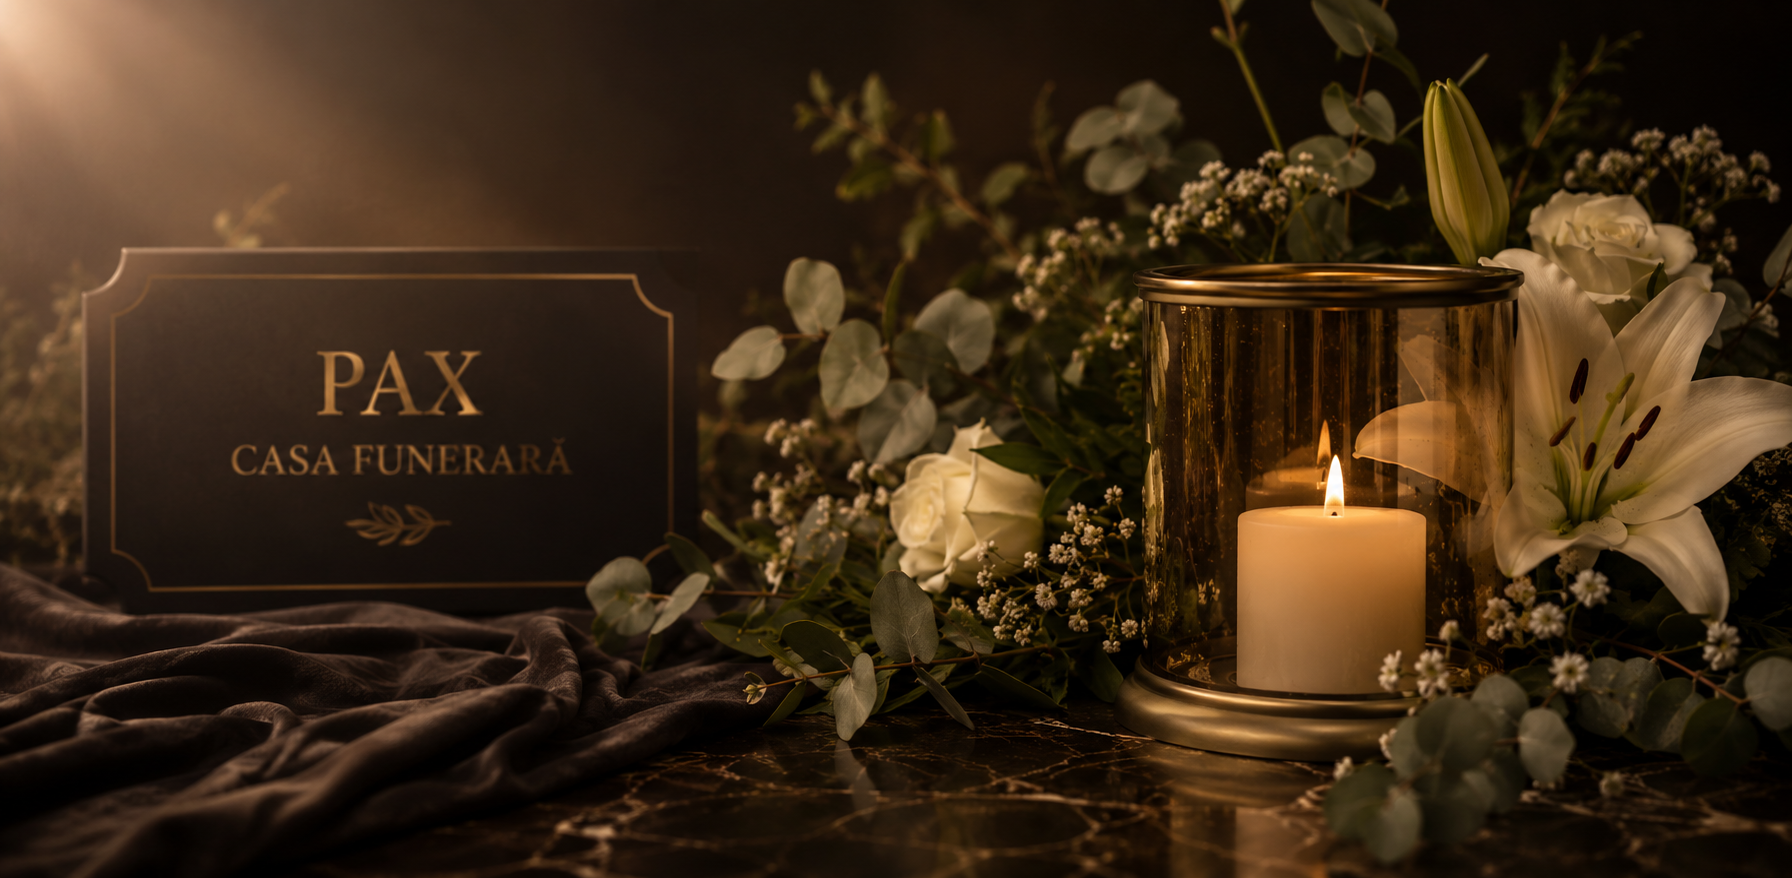
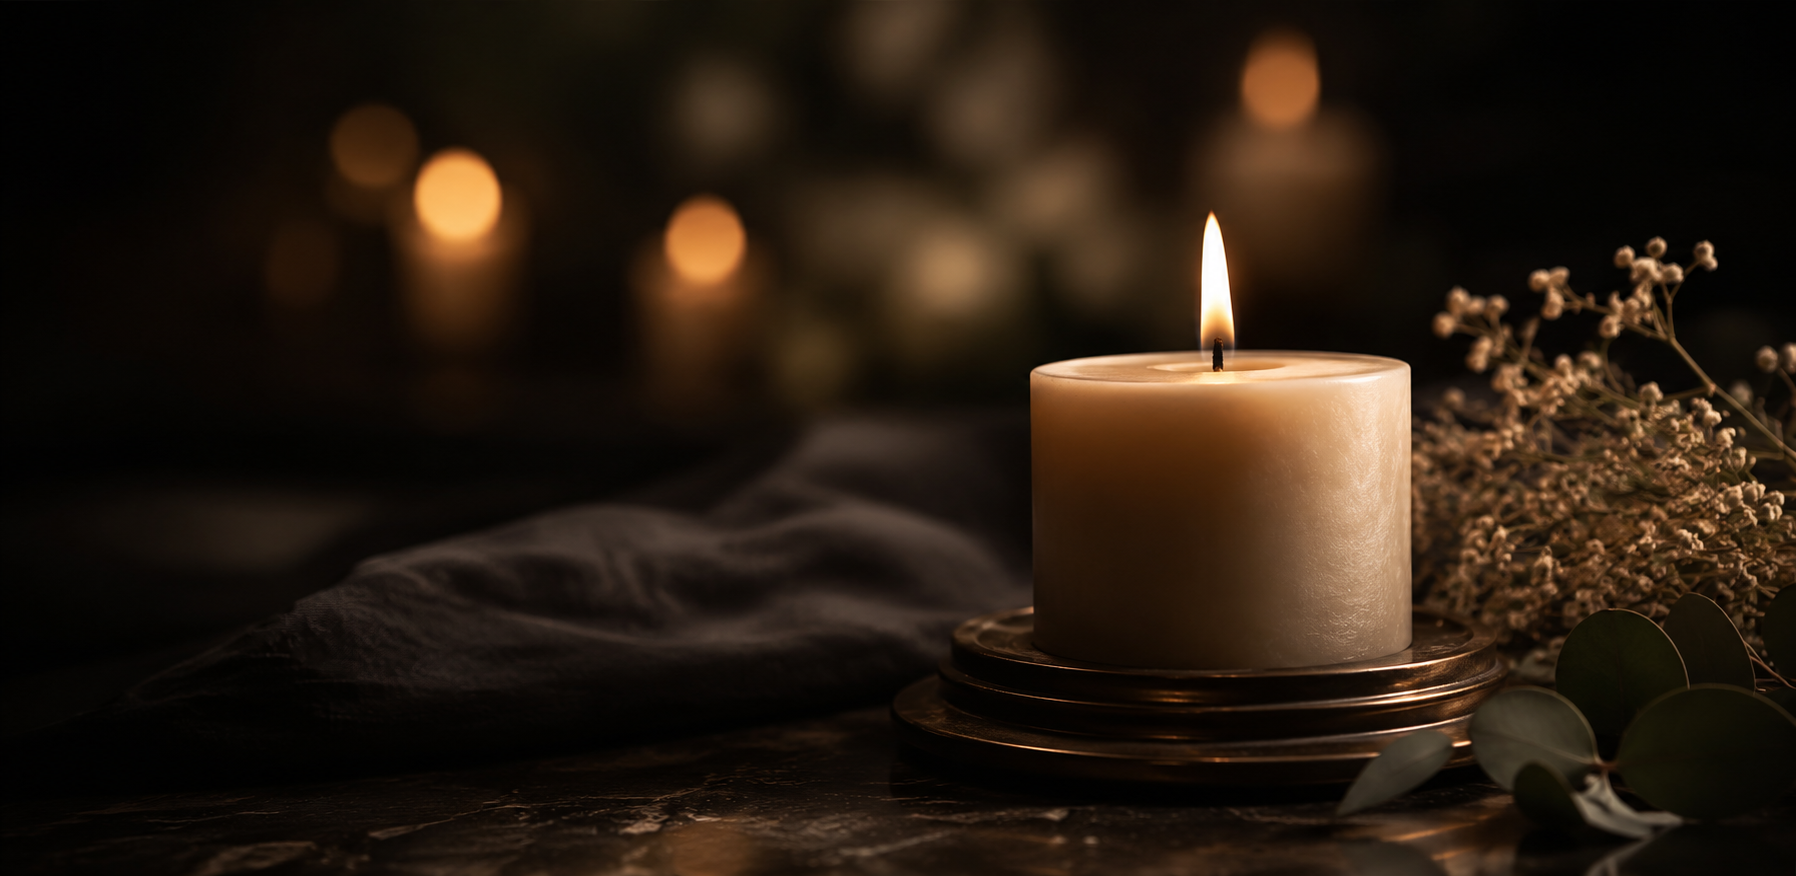
feat: update hero sections with new images and overlays for contact, services, and shop pages

diff --git a/src/app/pages/contact/contact.component.scss b/src/app/pages/contact/contact.component.scss
@@ -1,10 +1,37 @@
 @use '../../../styles/variables' as *;
 
 .page-hero {
-  background: var(--bg-hero-premium);
+  position: relative;
+  min-height: min(64vh, 560px);
+  display: flex;
+  flex-direction: column;
+  align-items: center;
+  justify-content: center;
+  overflow: hidden;
   border-bottom: 1px solid var(--color-border);
   padding-block: var(--space-16) var(--space-12);
   text-align: center;
+
+  .hero-bg {
+    position: absolute;
+    inset: 0;
+    width: 100%;
+    height: 100%;
+    object-fit: cover;
+    z-index: 0;
+  }
+
+  .hero-overlay {
+    position: absolute;
+    inset: 0;
+    z-index: 1;
+    background: linear-gradient(rgba(15, 15, 15, 0.62), rgba(15, 15, 15, 0.82));
+  }
+
+  .container {
+    position: relative;
+    z-index: 2;
+  }
 
   p {
     color: var(--color-text-secondary);

diff --git a/src/app/pages/despre-noi/despre-noi.component.scss b/src/app/pages/despre-noi/despre-noi.component.scss
@@ -1,10 +1,37 @@
 @use '../../../styles/variables' as *;
 
 .page-hero {
-  background: var(--bg-hero-premium);
+  position: relative;
+  min-height: min(64vh, 560px);
+  display: flex;
+  flex-direction: column;
+  align-items: center;
+  justify-content: center;
+  overflow: hidden;
   border-bottom: 1px solid var(--color-border);
   padding-block: var(--space-16) var(--space-12);
   text-align: center;
+
+  .hero-bg {
+    position: absolute;
+    inset: 0;
+    width: 100%;
+    height: 100%;
+    object-fit: cover;
+    z-index: 0;
+  }
+
+  .hero-overlay {
+    position: absolute;
+    inset: 0;
+    z-index: 1;
+    background: linear-gradient(rgba(15, 15, 15, 0.62), rgba(15, 15, 15, 0.82));
+  }
+
+  .container {
+    position: relative;
+    z-index: 2;
+  }
 }
 
 .page-hero-title {

diff --git a/src/app/pages/magazin/magazin.component.scss b/src/app/pages/magazin/magazin.component.scss
@@ -1,10 +1,37 @@
 @use '../../../styles/variables' as *;
 
 .page-hero {
-  background: var(--bg-hero-premium);
+  position: relative;
+  min-height: min(64vh, 560px);
+  display: flex;
+  flex-direction: column;
+  align-items: center;
+  justify-content: center;
+  overflow: hidden;
   border-bottom: 1px solid var(--color-border);
   padding-block: var(--space-16) var(--space-12);
   text-align: center;
+
+  .hero-bg {
+    position: absolute;
+    inset: 0;
+    width: 100%;
+    height: 100%;
+    object-fit: cover;
+    z-index: 0;
+  }
+
+  .hero-overlay {
+    position: absolute;
+    inset: 0;
+    z-index: 1;
+    background: linear-gradient(rgba(15, 15, 15, 0.62), rgba(15, 15, 15, 0.82));
+  }
+
+  .container {
+    position: relative;
+    z-index: 2;
+  }
 }
 
 .page-hero-title {

diff --git a/src/app/pages/servicii-funerare/servicii-funerare.component.scss b/src/app/pages/servicii-funerare/servicii-funerare.component.scss
@@ -1,10 +1,37 @@
 @use '../../../styles/variables' as *;
 
 .page-hero {
-  background: var(--bg-hero-premium);
+  position: relative;
+  min-height: min(64vh, 560px);
+  display: flex;
+  flex-direction: column;
+  align-items: center;
+  justify-content: center;
+  overflow: hidden;
   border-bottom: 1px solid var(--color-border);
   padding-block: var(--space-16) var(--space-12);
   text-align: center;
+
+  .hero-bg {
+    position: absolute;
+    inset: 0;
+    width: 100%;
+    height: 100%;
+    object-fit: cover;
+    z-index: 0;
+  }
+
+  .hero-overlay {
+    position: absolute;
+    inset: 0;
+    z-index: 1;
+    background: linear-gradient(rgba(15, 15, 15, 0.62), rgba(15, 15, 15, 0.82));
+  }
+
+  .container {
+    position: relative;
+    z-index: 2;
+  }
 }
 
 .page-hero-title {

diff --git a/src/app/pages/home/home.component.scss b/src/app/pages/home/home.component.scss
@@ -11,6 +11,22 @@
   text-align: center;
   overflow: hidden;
 
+  .hero-bg {
+    position: absolute;
+    inset: 0;
+    width: 100%;
+    height: 100%;
+    object-fit: cover;
+    z-index: 0;
+  }
+
+  .hero-overlay {
+    position: absolute;
+    inset: 0;
+    z-index: 1;
+    background: linear-gradient(rgba(15, 15, 15, 0.58), rgba(15, 15, 15, 0.8));
+  }
+
   // thin gold hairline along the very top
   &::before {
     content: '';
@@ -25,6 +41,7 @@
 
 .hero-content {
   position: relative;
+  z-index: 2;
 }
 
 .hero-kicker {

diff --git a/src/app/shared/components/navbar/navbar.component.ts b/src/app/shared/components/navbar/navbar.component.ts
@@ -34,6 +34,11 @@ export class NavbarComponent {
   closeMenu(): void {
     this.menuOpen.set(false);
     this.expandedGroup.set(null);
+    // Desktop hover dropdowns stay open via :focus-within after a click —
+    // drop focus so the panel collapses back to its initial state.
+    if (typeof document !== 'undefined') {
+      (document.activeElement as HTMLElement | null)?.blur();
+    }
   }
 
   toggleGroup(group: NavGroup): void {

diff --git a/src/app/pages/home/home.component.html b/src/app/pages/home/home.component.html
@@ -1,4 +1,6 @@
 <section class="hero">
+  <img class="hero-bg" src="photos/home/home_hero.png" alt="" aria-hidden="true">
+  <div class="hero-overlay" aria-hidden="true"></div>
   <div class="container hero-content">
     <p class="hero-kicker reveal-hidden">{{ 'common.nonStop' | translate }} · Târgu Mureș</p>
     <h1 class="hero-title reveal-hidden">{{ 'home.hero.title' | translate }}</h1>

diff --git a/src/app/pages/contact/contact.component.html b/src/app/pages/contact/contact.component.html
@@ -1,4 +1,6 @@
 <section class="page-hero">
+  <img class="hero-bg" src="photos/contact/contact_hero.png" alt="" aria-hidden="true">
+  <div class="hero-overlay" aria-hidden="true"></div>
   <div class="container">
     <h1 class="page-hero-title reveal-hidden">{{ 'contact.title' | translate }}</h1>
     <p class="reveal-hidden">{{ 'contact.subtitle' | translate }}</p>

diff --git a/src/app/pages/despre-noi/despre-noi.component.html b/src/app/pages/despre-noi/despre-noi.component.html
@@ -1,4 +1,6 @@
 <section class="page-hero">
+  <img class="hero-bg" src="photos/about-us/about_us_hero.png" alt="" aria-hidden="true">
+  <div class="hero-overlay" aria-hidden="true"></div>
   <div class="container">
     <h1 class="page-hero-title reveal-hidden">{{ 'about.title' | translate }}</h1>
     <p class="page-hero-tagline reveal-hidden">

diff --git a/src/app/pages/servicii-funerare/servicii-funerare.component.html b/src/app/pages/servicii-funerare/servicii-funerare.component.html
@@ -1,4 +1,6 @@
 <section class="page-hero">
+  <img class="hero-bg" src="photos/services/services_hero.png" alt="" aria-hidden="true">
+  <div class="hero-overlay" aria-hidden="true"></div>
   <div class="container">
     <h1 class="page-hero-title reveal-hidden">{{ 'services.title' | translate }}</h1>
     <p class="page-hero-desc reveal-hidden">

diff --git a/src/app/pages/magazin/magazin.component.html b/src/app/pages/magazin/magazin.component.html
@@ -1,4 +1,6 @@
 <section class="page-hero">
+  <img class="hero-bg" src="photos/shop/shop_hero.png" alt="" aria-hidden="true">
+  <div class="hero-overlay" aria-hidden="true"></div>
   <div class="container">
     <h1 class="page-hero-title reveal-hidden">{{ 'shop.title' | translate }}</h1>
     <p class="page-hero-desc reveal-hidden">
